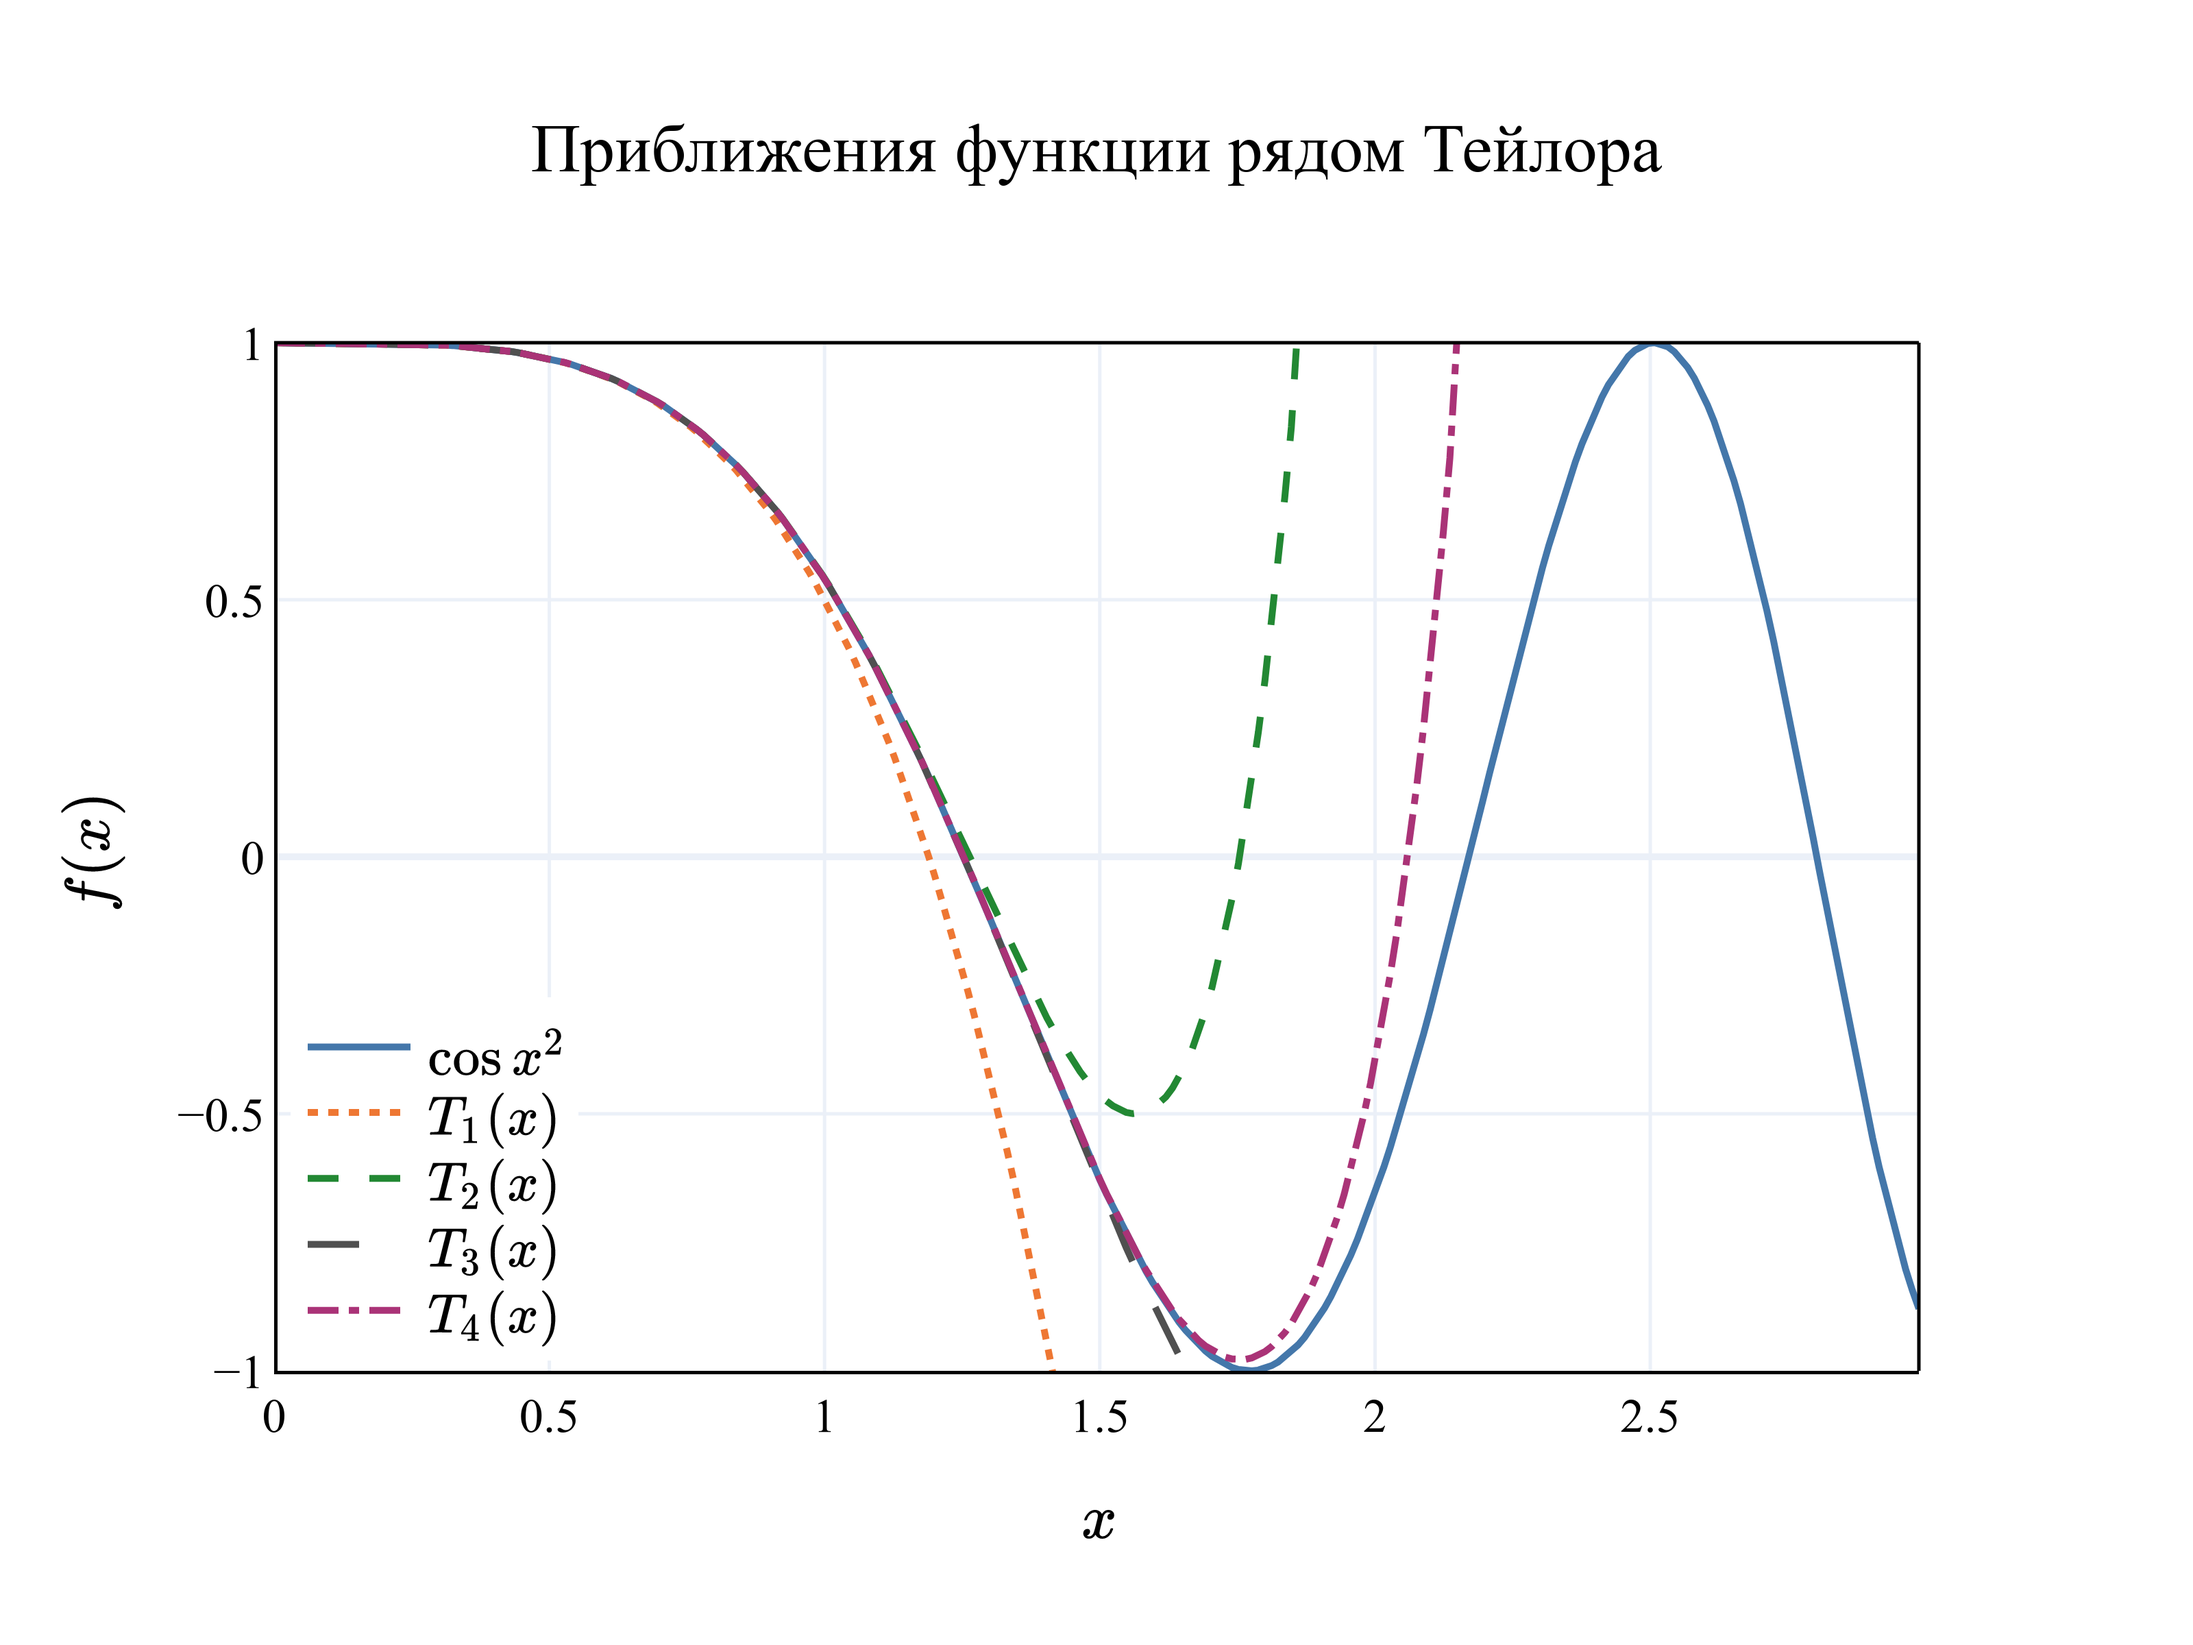
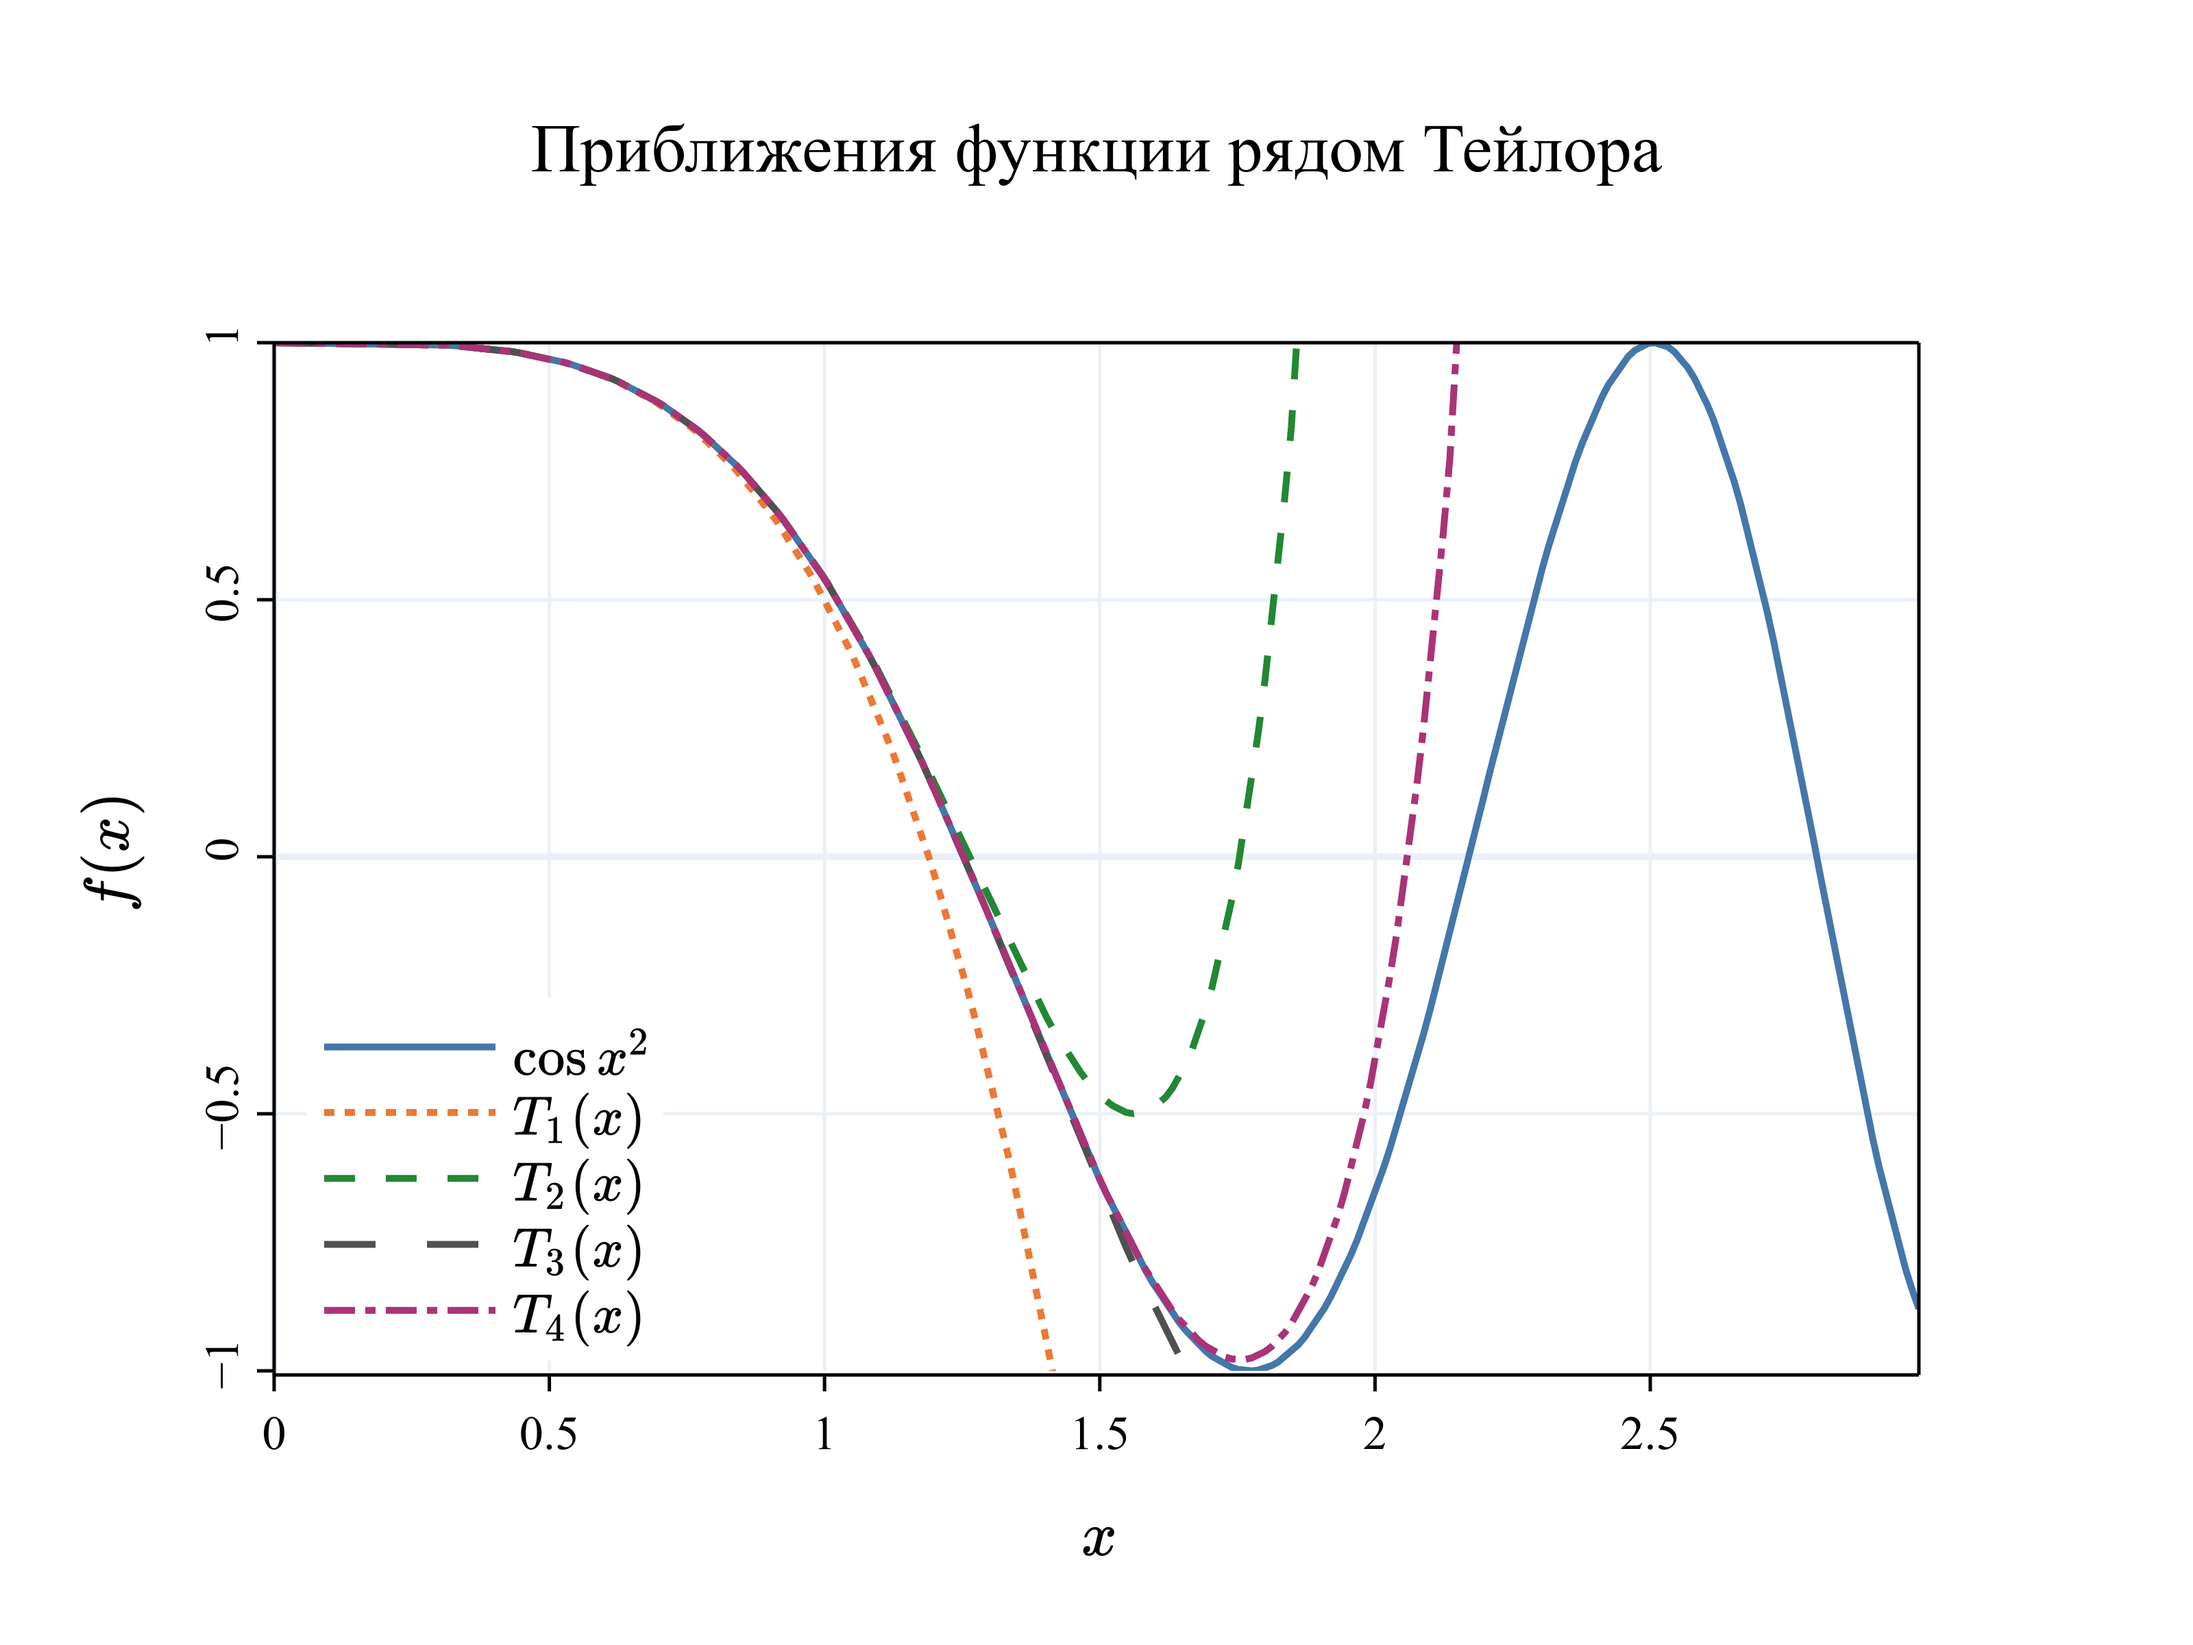
Some fixes

diff --git a/python-plotly/taylor.py b/python-plotly/taylor.py
@@ -35,16 +35,25 @@ trace5 = go.Scatter(x=x, y=y5, mode='lines', name=r'$T_4(x)$', line=dict(color=p
 xaxis = dict(
     title=r'$x$',
     position=0.0,
-    showline=True,
+    showline=False,
     linecolor="black",
+    ticks="outside",
+    tickwidth=1,
+    tickcolor="black",
+    ticklen=5,
 )
 
 yaxis = dict(
     title=r'$f(x)$',
     range=[-1, 1],
     position=0.0,
-    showline=True,
+    showline=False,
     linecolor="black",
+    ticks="outside",
+    tickwidth=1,
+    tickcolor="black",
+    ticklen=5,
+    tickangle=270,
 )
 
 linetop = dict(
@@ -58,13 +67,35 @@ linetop = dict(
     line=dict(color="black", width=1),
 )
 
+linebottom = dict(
+    type='line',
+    xref='paper',
+    yref='paper',
+    x0=0,
+    y0=-0.004,
+    x1=1,
+    y1=-0.004,
+    line=dict(color="black", width=1),
+)
+
 lineright = dict(
     type='line',
     xref='paper',
     yref='paper',
     x0=1,
-    y0=0,
+    y0=-0.004,
     x1=1,
+    y1=1,
+    line=dict(color="black", width=1),
+)
+
+lineleft = dict(
+    type='line',
+    xref='paper',
+    yref='paper',
+    x0=0,
+    y0=-0.004,
+    x1=0,
     y1=1,
     line=dict(color="black", width=1),
 )
@@ -78,7 +109,15 @@ my_layout = go.Layout(
     xaxis=xaxis,
     yaxis=yaxis,
     font=dict(family='Times', size=14, color='black'),
-    legend=dict(title='', orientation='v', x=0.01, y=0.01, xanchor='left', yanchor='bottom'),
+    legend=dict(
+        title='',
+        orientation='v',
+        x=0.02,
+        y=0.01,
+        xanchor='left',
+        yanchor='bottom',
+        itemwidth=50,
+        ),
     template='plotly_white',
     width=640,
     height=480,
@@ -88,7 +127,9 @@ my_layout = go.Layout(
 fig = go.Figure(layout=my_layout)
 
 fig.add_shape(linetop)
+fig.add_shape(linebottom)
 fig.add_shape(lineright)
+fig.add_shape(lineleft)
 
 # Add traces to the figure
 fig.add_trace(trace1)
